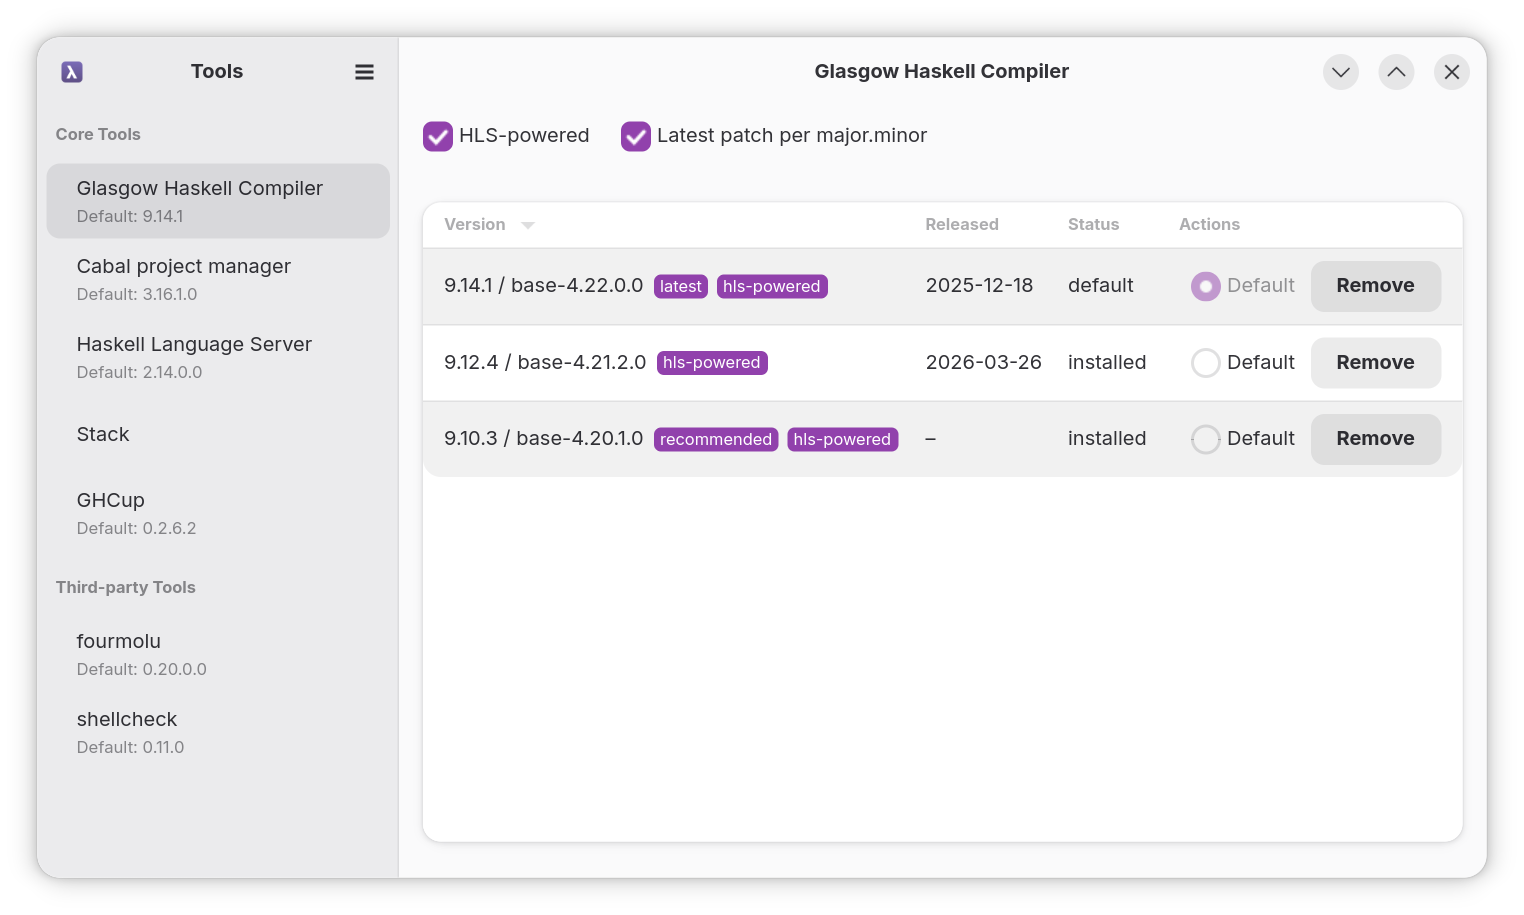
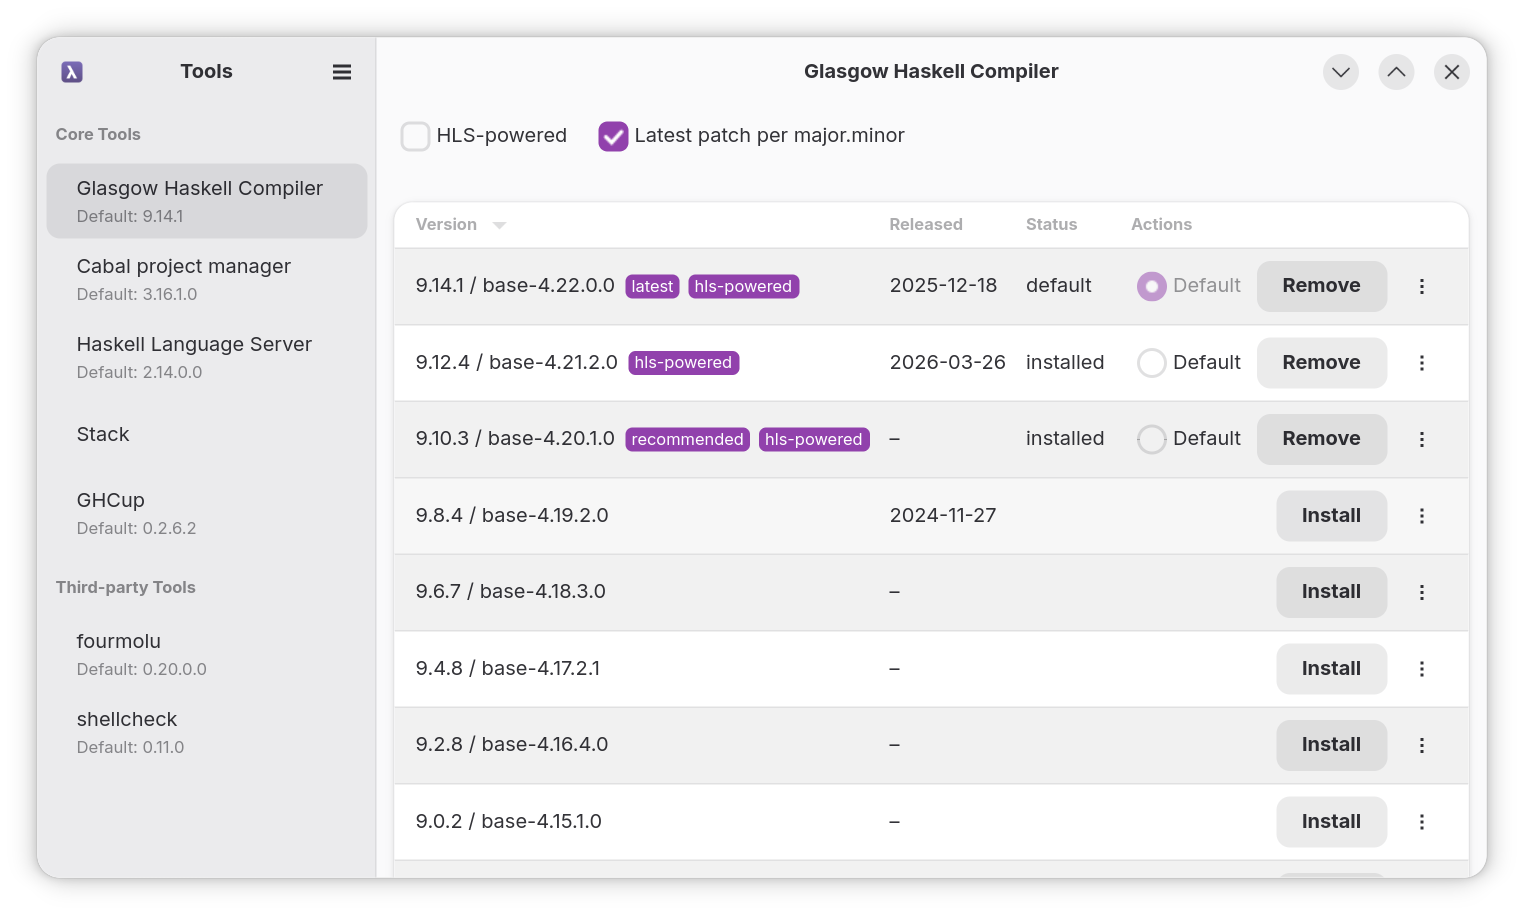
Add a menu for advanced installation instructions (#23)
* Add a menu for advanced installation instructions

* Update table view

diff --git a/data/style.css b/data/style.css
@@ -69,3 +69,7 @@ columnview.card > listview > row:last-child {
   background-color: var(--accent-bg-color);
   color: var(--accent-fg-color);
 }
+
+.install-options-content {
+  margin: 12px;
+}
